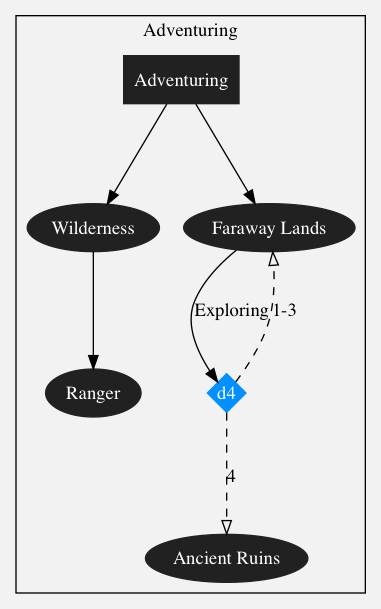
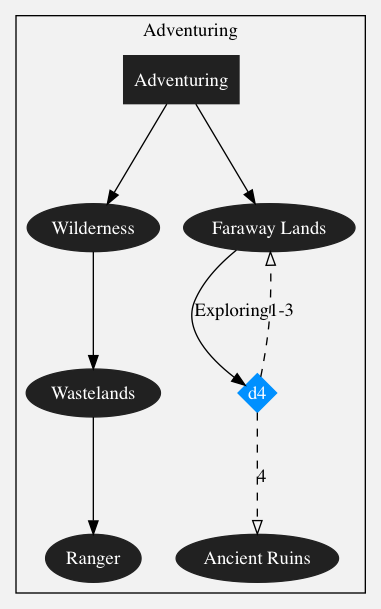
Work in progress

diff --git a/pages/characters.md b/pages/characters.md
@@ -134,24 +134,27 @@ During the life path, there are certain restrictions to bonuses gained.
 - Primary stat values may change a maximum of `1` point
 - Secondary stat values may change a maximum of `2` points
 - Skills may gain a maximum of `5 XP`
+- Bonuses to other life path `d4` checks have maximum `+1`
 
 #### Place of Origin
 
+![Place of Origin](../assets/lifepath/origin.png)
+
 ##### Urchin
 
-Life as a young street urchin. `+1 XP` Sneaking. Increases chance to become an *Enforcer* in City by `1`.
+Life as a young street urchin. `+2 XP` Sneaking. Increases chance to become an *Enforcer* in City by `1`.
 
 ##### Thief
 
-From a street urchin to pick pocket, nimble burglar in the night. `+1 XP` Sleight of hand. Increases chance to become *Assassin* in City by `1`.
+From a street urchin to nimble burglar in the night. `+1 XP` Lock picking, `+1 XP` Acrobatics. Increases chance to become *Assassin* in City by `1`.
 
 ##### Brawler
 
-Playing fisticuffs for coin and a bit of wrestling. `+1 XP` Athletics. Increases chance to become *Gladiator* in City by `1`.
+Playing fisticuffs for coin and a bit of wrestling. `+2 XP` Athletics. Increases chance to become *Gladiator* in City by `1`.
 
 ##### Fighter
 
-Picking up the sword or axe comes easier with a big of fighting experience. `+1 XP` One-handed. Increases chance to become *Champion* in City by `1`.
+Picking up the sword or axe comes easier with a big of fighting experience. `+1 XP` One-handed, `+1 XP` Two-handed. Increases chance to become *Champion* in City by `1`.
 
 ##### Student
 
@@ -171,13 +174,15 @@ Discovering the Divine Light and its ways. TODO. Increases chance to become *Pri
 
 ##### Apprentice
 
-Learning a trade is best done at a young age. `+1 XP` Field repair. Increases chance to become *Trader* in City by `1`.
+Learning a trade is best done at a young age. `+2 XP` Field repair. Increases chance to become *Trader* in City by `1`.
 
 ##### Craftsman
 
-Honing skills as a master craftsman. `+1 XP` Mercantile. Increases chance to become *Merchant* in City by `1`.
+Honing skills as a master craftsman. `+1` Traps/devices, `+1 XP` Mercantile, `+1` wealth. Increases chance to become *Merchant* in City by `1`.
 
 #### Major City
+
+![Major City](../assets/lifepath/city.png)
 
 ##### Loiter
 
@@ -189,31 +194,31 @@ Arx Arcanum, or *secret citadel*, is a place for studying the mysteries of the a
 
 ##### Scholar
 
-Those who master the arcane arts are both feared and respected. TODO.
+Those who master the arcane arts are both feared and respected. `+1` COG, TODO.
 
 ##### Gladiator
 
-Fighting in the Arena is dangerous but can be profitable and a valuable learning opportunity. `+2 XP` One-handed.
+Fighting in the Arena is dangerous but can be profitable and a valuable learning opportunity. `+2 XP` One-handed, `+2` wealth.
 
 ##### Champion
 
-Only those with determination and accomplished skill in combat, but also a flair for the dramatic become Champions. `+3 XP` Two-handed.
+Only those with determination and accomplished skill in combat, but also a flair for the dramatic become Champions. `+1` PHY, `+2 XP` Two-handed.
 
 ##### Trader
 
-Those with a head for numbers and a good eye for value can turn a hefty profit in the City. `+2 XP` Mercantile.
+Those with a head for numbers and a good eye for value can turn a hefty profit in the City. `+2 XP` Mercantile, `+3` wealth.
 
 ##### Merchant
 
-To call oneself a Merchant implies one's connections reach far and wide. Exotic goods and coin aplenty find their way into your pockets. TODO.
+To call oneself a Merchant implies one's connections reach far and wide. Exotic goods and coin aplenty find their way into your pockets. `+1` EMP, `+2` Interaction.
 
 ##### Enforcer
 
-The shady underworld is an opportunity for those with the skills and wit to navigate its perils. TODO.
+The shady underworld is an opportunity for those with the skills and wit to navigate its perils. `+2 XP` Sleight of hand, `+1 XP` Throwing.
 
 ##### Assassin
 
-The unseen blade in the night, the assassin is a dark instrument of the will of the underworld.
+The unseen blade in the night, the assassin is a dark instrument of the will of the underworld. `+1` DEX, `+2 XP` Forgery/disguise.
 
 ##### Monastery
 
@@ -221,47 +226,55 @@ An austere and forbidding place for the study of the divine, often located in in
 
 ##### Priest
 
-Ordained in the Light of the Divine, a Priest commands fear in the hearts of sinners, and no one is without sin. TODO.
+Ordained in the Light of the Divine, a Priest commands fear in the hearts of sinners, and no one is without sin. `+1` WIL, TODO.
 
 #### Adventuring
 
+![Adventuring](../assets/lifepath/adventuring.png)
+
 ##### Wilderness
 
-The harsh wilderness has many lessons to those who survive its unforgiving tutelage.
+The harsh wilderness has many lessons to those who survive its unforgiving tutelage. `+2 XP` Investigation/tracking.
+
+##### Wastelands
+
+The desolate places of the world that forces both natural and unnatural &mdash; those of the great war &mdash; have left all but lifeless. `+2 XP` Marksman, `+1 XP` Evasion.
 
 ##### Ranger
 
-Those rugged individuals who have mastered the wastelands and have skill with bow and arrow are called Rangers. Increases chance to discover *Ancient Ruins* by `1`.
+Those rugged individuals who have mastered the wastelands and have skill with bow and arrow are called Rangers. `+1` Awareness, `+1` Endurance. Increases chance to discover *Ancient Ruins* by `1`.
 
 ##### Faraway Lands
 
-Many exotic lands await the intrepid adventurer with rich experiences and dangers.
+Many exotic lands await the intrepid adventurer with rich experiences and dangers. `+2 XP` Trauma treatment.
 
 ##### Ancient Ruins
 
-Untold treasures of the ancient world are said to be found within the halls these relics.
+Untold treasures of the ancient world are said to be found within the halls these relics. Roll on the Jackpot table.
 
 #### War
 
+![War](../assets/lifepath/war.png)
+
 ##### War
 
-War is a dirty dangerous business, but many things can be learned on the battlefield. Still, victory and defeat do not depend on one person.
+War is a dirty dangerous business, but many things can be learned on the battlefield. Still, victory and defeat do not depend on one person. `+2 XP` Weapon-and-shield.
 
 ##### Drifter
 
-Those who are lucky become drifters when a war is lost, wandering the lands looking for new purpose.
+Those who are lucky become drifters when a war is lost, wandering the lands looking for new purpose. `+2 XP` to any skill in the skillset you have least XP in.
 
 ##### Slave Pit
 
-The unfortunate warrior on the losing side of a war may find themselves in a slave pit, toiling in terrible conditions under the whip of the victors.
+The unfortunate warrior on the losing side of a war may find themselves in a slave pit, toiling in terrible conditions under the whip of the victors. `+1` Fortitude, `+1` Evasion.
 
 ##### Veteran
 
-Those on the victor's side in a war mostly become Veterans, hardened by their experiences.
+Those on the victor's side in a war mostly become Veterans, hardened by their experiences. `+2 XP` Stabilization, `+1` wealth.
 
 ##### Captain
 
-Some of those who are lucky enough to be on the winning side, and have distinguished themselves, find rank and prestige.
+Some of those who are lucky enough to be on the winning side, and have distinguished themselves, find rank and prestige. Mastercrafted(16) weapon, `+2` wealth.
 
 ## Skills
 
